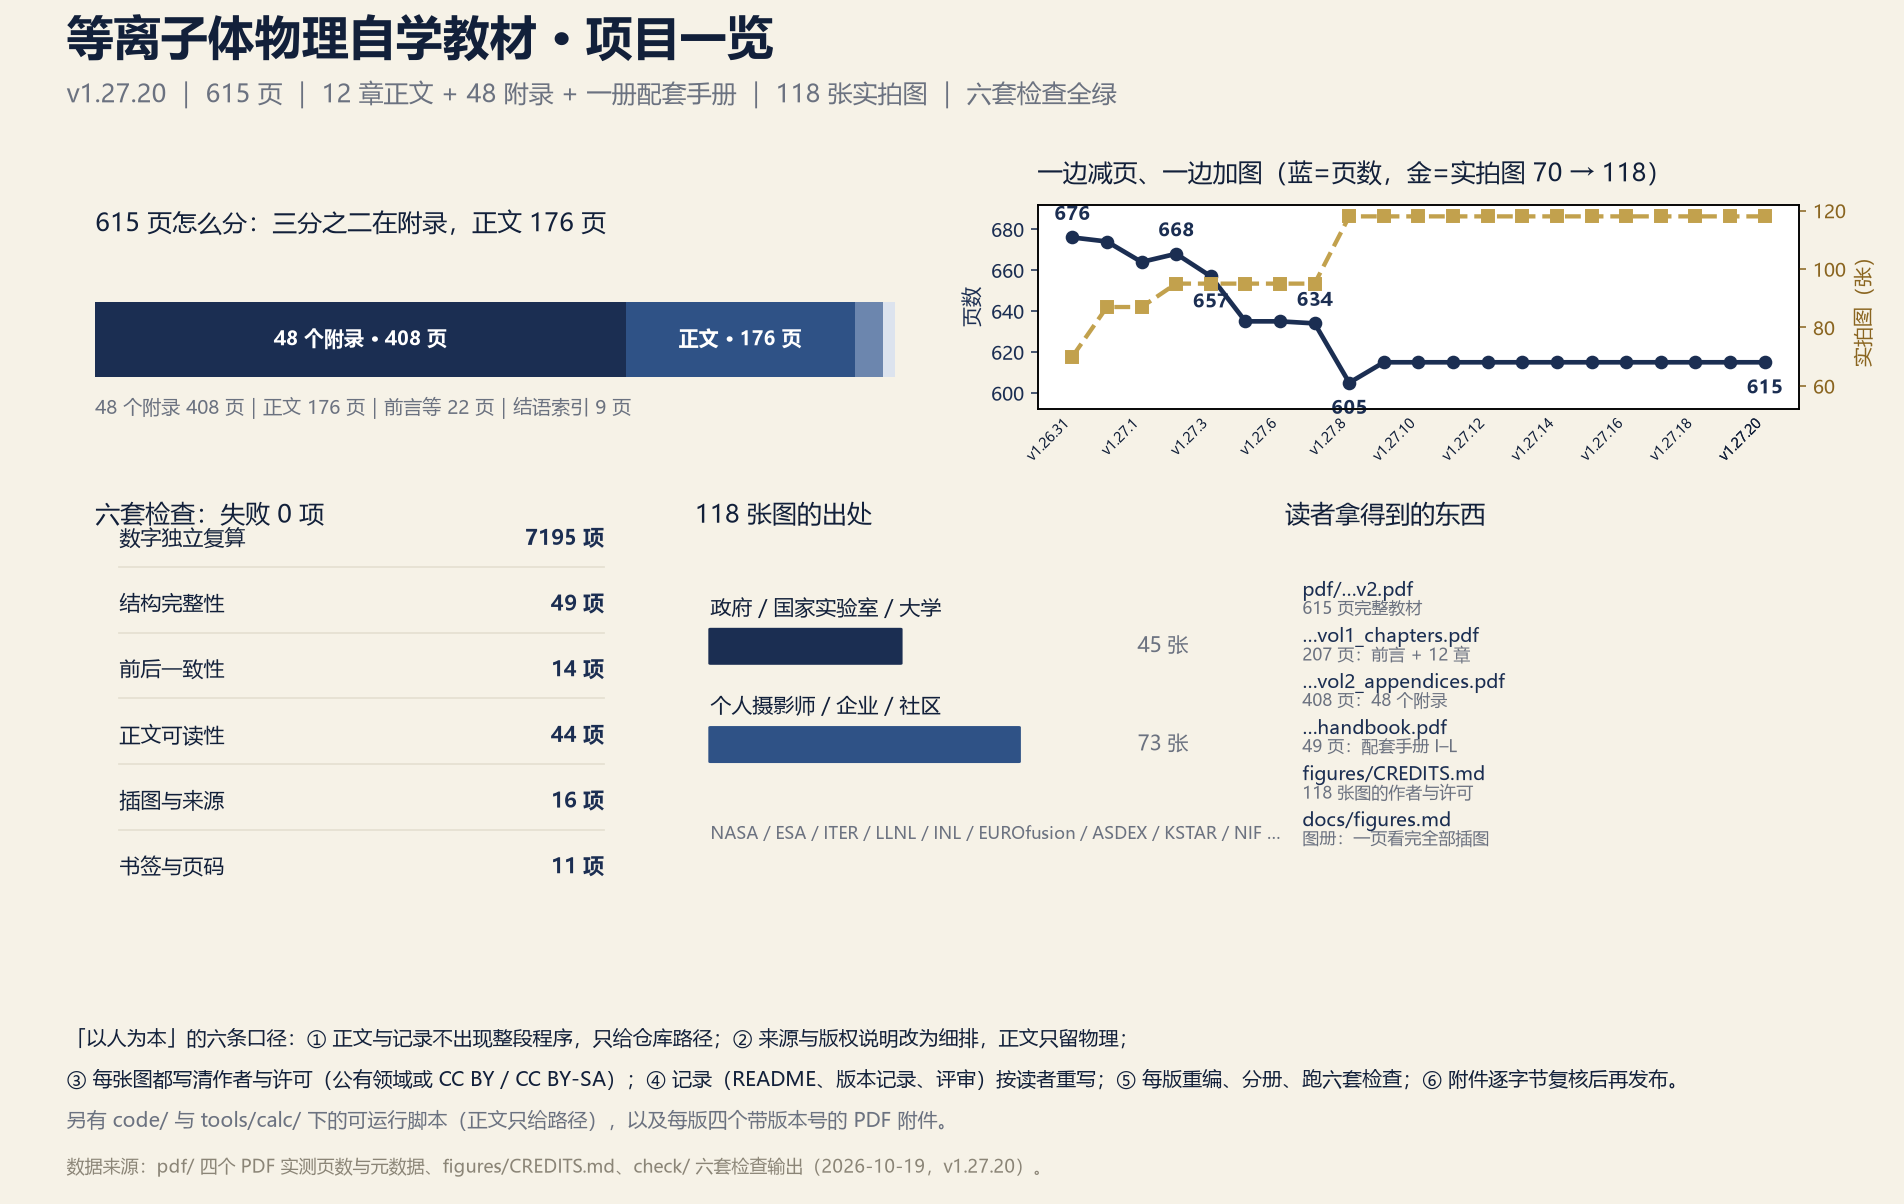
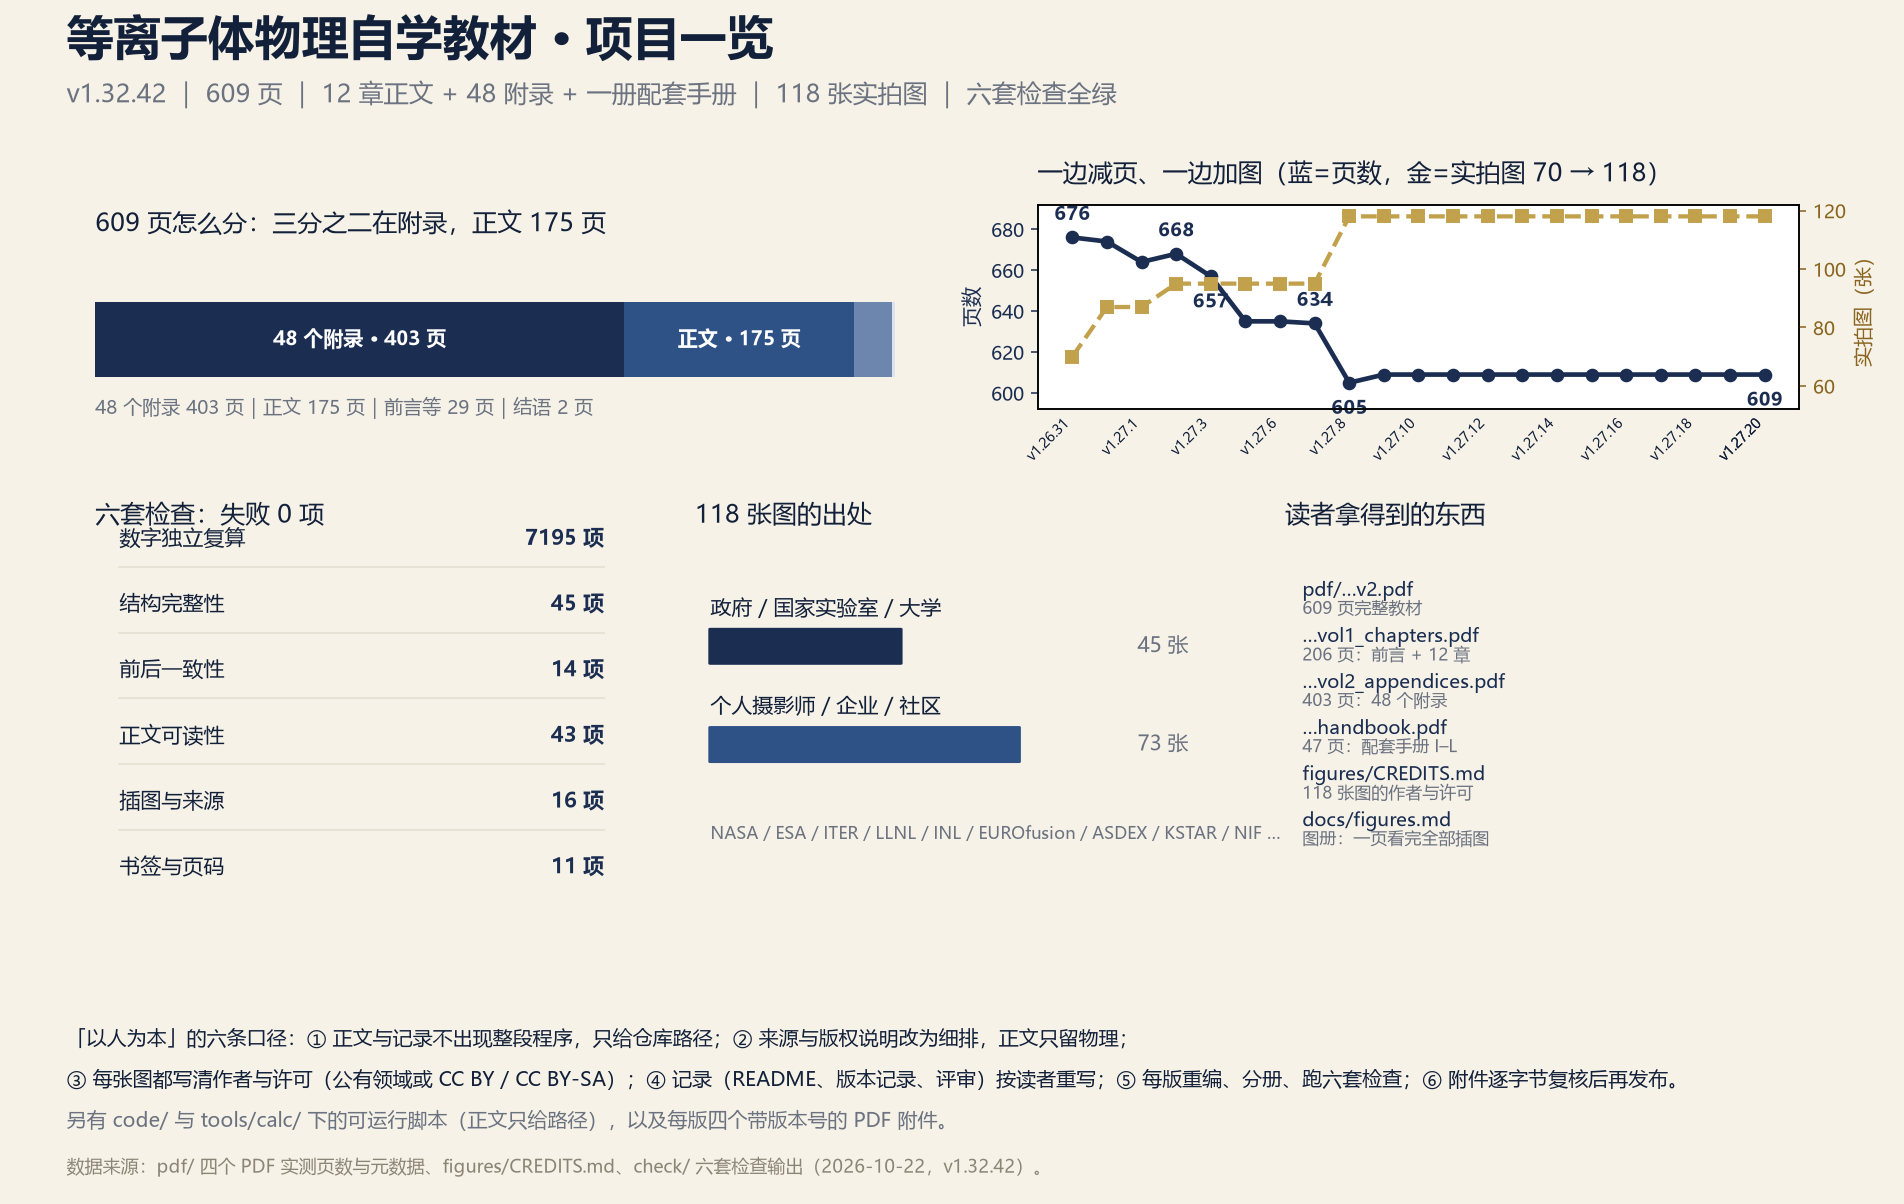
docs/overview.png：页数构成与检查项数改为实测（正文 176→175，49/44→45/43）

diff --git a/tools/overview_fig.py b/tools/overview_fig.py
@@ -7,6 +7,7 @@
 - 六套检查的项数：check/ 各脚本的实际项数（改动检查后同步这里）
 用法：python -X utf8 tools/overview_fig.py
 """
+import datetime
 import os
 import re
 import sys
@@ -57,11 +58,27 @@ rows = load_rows(os.path.join(ROOT, 'figures', 'CREDITS.md'))
 NF = len(rows)
 src = source_counts(rows)
 
-CH_PAGES = 176
-APX_PAGES = P2
-FRONT = PAGES - CH_PAGES - APX_PAGES - 9      # 封面目录 + 前言；结语与索引按 9 页
-TAIL = 9
-NCHK = [7195, 49, 14, 44, 16, 11]
+# 页数构成从书签实测，避免脚本里留着手填的常数
+_toc = doc.get_toc()
+
+
+def _start(prefix):
+    for lv, title, page in _toc:
+        if lv == 1 and title.strip().startswith(prefix):
+            return page
+    raise SystemExit('书签里找不到：%s' % prefix)
+
+
+_lv1 = [(tt.strip(), pp) for lv, tt, pp in _toc if lv == 1]
+_pref = [i for i, (tt, _) in enumerate(_lv1) if tt == '前言'][0]
+_CH_START = _lv1[_pref + 1][1]      # 前言之后的第一条一级书签就是第 1 章
+_TAIL_START = _start('结语')
+_APX_START = _start('附录 A')
+FRONT = _CH_START - 1                          # 封面、目录、符号与前言
+CH_PAGES = _TAIL_START - _CH_START             # 第 1 章起，到结语前
+TAIL = _APX_START - _TAIL_START                # 结语
+APX_PAGES = PAGES - _APX_START + 1             # 48 个附录
+NCHK = [7195, 45, 14, 43, 16, 11]              # 各类检查的项数（随门禁更新）
 
 fig = plt.figure(figsize=(13.6, 8.6), dpi=140)
 fig.patch.set_facecolor(BG)
@@ -74,7 +91,7 @@ fig.text(0.035, 0.915,
 ax1 = fig.add_axes([0.05, 0.65, 0.42, 0.145])
 ax1.set_facecolor(BG)
 parts = [('48 个附录', APX_PAGES, ACCENT), ('正文', CH_PAGES, LIGHT),
-         ('前言等', FRONT, PALE), ('索引', TAIL, FAINT)]
+         ('前言等', FRONT, PALE), ('结语', TAIL, FAINT)]
 left = 0
 for label, val, color in parts:
     ax1.barh([0], [val], left=left, color=color, height=0.5)
@@ -87,7 +104,7 @@ ax1.set_ylim(-0.55, 0.62)
 ax1.axis('off')
 ax1.set_title('%d 页怎么分：三分之二在附录，正文 %d 页' % (PAGES, CH_PAGES), fontsize=13,
               color=INK, loc='left', pad=8)
-ax1.text(0, -0.50, '48 个附录 %d 页｜正文 %d 页｜前言等 %d 页｜结语索引 %d 页'
+ax1.text(0, -0.50, '48 个附录 %d 页｜正文 %d 页｜前言等 %d 页｜结语 %d 页'
          % (APX_PAGES, CH_PAGES, FRONT, TAIL),
          fontsize=9.6, color=MUTED)
 
@@ -188,7 +205,7 @@ fig.text(0.035, 0.064,
          fontsize=10.1, color=MUTED)
 fig.text(0.035, 0.026,
          '数据来源：pdf/ 四个 PDF 实测页数与元数据、figures/CREDITS.md、check/ 六套检查输出'
-         '（2026-10-19，%s）。' % VERSION,
+         '（%s，%s）。' % (datetime.date.today().isoformat(), VERSION),
          fontsize=9.4, color='#8b8577')
 
 out = os.path.join(ROOT, 'docs', 'overview.png')
